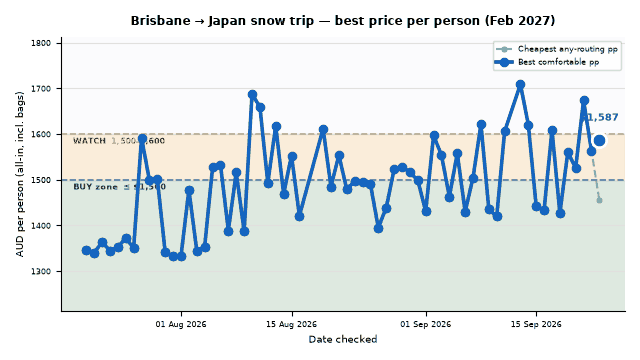
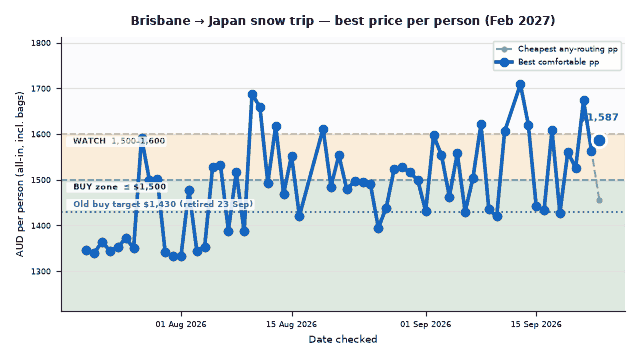
chart: keep the retired $1,430 buy target as a reference line
Isaac wants the old goalpost visible on every chart so the target can't
quietly drift. Drawn as a purple dotted line with no shading and no effect
on the verdict. Band labels get a white backing so they stay readable
where the price line crosses them.

Claude-Session: https://claude.ai/code/session_014MtJ7GdGMYeek6p7cqHLoR

diff --git a/email-template.html b/email-template.html
@@ -111,7 +111,7 @@
   <!-- ══ PRICE LOG ══ -->
   <tr><td style="background:#ffffff;border-radius:12px;padding:20px 24px 22px;">
     <h2 style="margin:0 0 6px;font-size:17px;font-weight:700;color:#1a202c;">📉 Price log</h2>
-    <p style="margin:0 0 14px;font-size:12.5px;color:#8a94a6;line-height:1.5;">Cheapest comfortable price pp over time. 🟢 BUY ≤ $1,500 · 🟡 WATCH $1,500–$1,600 · 🔴 HOLD above $1,600.</p>
+    <p style="margin:0 0 14px;font-size:12.5px;color:#8a94a6;line-height:1.5;">Cheapest comfortable price pp over time. 🟢 BUY ≤ $1,500 · 🟡 WATCH $1,500–$1,600 · 🔴 HOLD above $1,600. Purple dotted line: the old $1,430 buy target, kept for the record.</p>
 
     <!-- Chart is a hosted image, not a data: URI — Gmail blocks data: URIs in <img>.
          The ?v= cache-buster is required: without it Gmail's proxy serves a stale chart. -->

diff --git a/email.html b/email.html
@@ -83,7 +83,7 @@
   
   <tr><td style="background:#ffffff;border-radius:12px;padding:20px 24px 22px;">
     <h2 style="margin:0 0 6px;font-size:17px;font-weight:700;color:#1a202c;">📉 Price log</h2>
-    <p style="margin:0 0 14px;font-size:12.5px;color:#8a94a6;line-height:1.5;">Cheapest comfortable price pp over time. 🟢 BUY ≤ $1,500 · 🟡 WATCH $1,500–$1,600 · 🔴 HOLD above $1,600.</p>
+    <p style="margin:0 0 14px;font-size:12.5px;color:#8a94a6;line-height:1.5;">Cheapest comfortable price pp over time. 🟢 BUY ≤ $1,500 · 🟡 WATCH $1,500–$1,600 · 🔴 HOLD above $1,600. Purple dotted line: the old $1,430 buy target, kept for the record.</p>
 
     
     <img src="https://raw.githubusercontent.com/Jack-Wests/japan-flight-log/claude/peaceful-heisenberg-ytw4jo/chart-email.png?v=2026-09-23"

diff --git a/make_chart.py b/make_chart.py
@@ -7,7 +7,10 @@ marker on today's (latest) point. The absolute-cheapest (any-routing) total is
 drawn as a lighter dotted reference so the gap to comfortable is visible — for
 rows logged before comfortable was tracked separately the two lines overlap.
 
-One set of targets — no private target. Also writes chart-email.png and its
+One set of targets — no private target. The retired $1,430 buy target is drawn
+as a plain dotted reference line on Isaac's request (23 Sep 2026), so the chart
+shows how far the goalposts have moved. It is history, not a band: never shade
+it, and never base a verdict on it. Also writes chart-email.png and its
 base64 (chart-email.b64) for embedding in the daily email.
 """
 import base64
@@ -21,6 +24,9 @@ import matplotlib.dates as mdates
 
 BUY = 1500    # buy target — CALL THE LADS at or below this
 WATCH = 1600  # watch ceiling — HOLD above this
+OLD_BUY = 1430  # retired buy target (Sep 2026) — reference line only, keep it
+# White backing so band labels stay readable where the price line crosses them.
+LABEL_BOX = dict(boxstyle="round,pad=0.15", facecolor="white", edgecolor="none", alpha=0.85)
 
 dates, total, comfortable = [], [], []
 with open("prices.csv") as f:
@@ -44,7 +50,7 @@ def build(path, figsize=(10, 5.6), dpi=130):
 
     # Y range gives headroom around the data and always shows the buy/watch bands.
     ymax = max(max(total), max(comfortable), WATCH) * 1.06
-    ymin = min(min(comfortable), min(total), BUY) - 120
+    ymin = min(min(comfortable), min(total), BUY, OLD_BUY) - 120
     ymin = max(0, ymin)
 
     # Shaded decision bands.
@@ -53,9 +59,15 @@ def build(path, figsize=(10, 5.6), dpi=130):
     ax.axhline(BUY, color="#2e7d32", lw=1.2, ls="--", alpha=0.8)
     ax.axhline(WATCH, color="#f9a825", lw=1.2, ls="--", alpha=0.8)
     ax.text(0.012, BUY - 8, "  BUY zone  ≤ $1,500", transform=ax.get_yaxis_transform(),
-            va="top", ha="left", fontsize=9*s, color="#1b5e20", fontweight="bold")
+            va="top", ha="left", fontsize=9*s, color="#1b5e20", fontweight="bold", bbox=LABEL_BOX, zorder=7)
     ax.text(0.012, WATCH - 8, "  WATCH  $1,500–$1,600", transform=ax.get_yaxis_transform(),
-            va="top", ha="left", fontsize=9*s, color="#8d6e00", fontweight="bold")
+            va="top", ha="left", fontsize=9*s, color="#8d6e00", fontweight="bold", bbox=LABEL_BOX, zorder=7)
+
+    # Retired target — kept visible on purpose so the old goalpost stays on record.
+    ax.axhline(OLD_BUY, color="#6a1b9a", lw=1.3, ls=":", alpha=0.9, zorder=2)
+    ax.text(0.012, OLD_BUY + 6, "  Old buy target $1,430 (retired 23 Sep)",
+            transform=ax.get_yaxis_transform(), va="bottom", ha="left",
+            fontsize=8.5*s, color="#6a1b9a", fontweight="bold", bbox=LABEL_BOX, zorder=7)
 
     # Cheapest any-routing total — lighter dotted reference (may include
     # forced-overnight fares). Overlaps the comfortable line where they're equal.

diff --git a/CLAUDE.md b/CLAUDE.md
@@ -44,6 +44,10 @@ fly home from TYO Feb 16–17. ~13 nights total.
   forced-overnight costs hidden from the fare; a Singapore overnight counts as
   free. $1,500 is a genuine dip; below that = book on the spot.
   $1,500–$1,600 = WATCH. Above $1,600 = HOLD.
+- **Keep the old $1,430 line on the chart.** Isaac asked (23 Sep 2026) for the
+  retired $1,430 buy target to stay visible as a purple dotted line, so the
+  goalposts can't quietly move. It's a record, not a second target: no shading,
+  no verdict based on it. `make_chart.py` draws it — don't remove it.
 - **This repo is public.** Anything committed is readable by anyone, including
   every past version in the history.
 - **One email per run. Never a "corrected" follow-up.** Fix it before sending

diff --git a/RUNBOOK.md b/RUNBOOK.md
@@ -73,6 +73,9 @@ Verdict bands: 🟢 ≤ $1,500 BUY · 🟡 $1,500–$1,600 WATCH · 🔴 > $1,60
 python3 make_chart.py     # writes chart.png + chart-email.png
 ```
 
+The purple dotted line at $1,430 is the retired buy target, kept on purpose
+at Isaac's request. Leave it in.
+
 Never hand-tune sizes here. The email chart is deliberately 640×360 and
 palette-quantised — big enough to read, small enough to serve.
 
